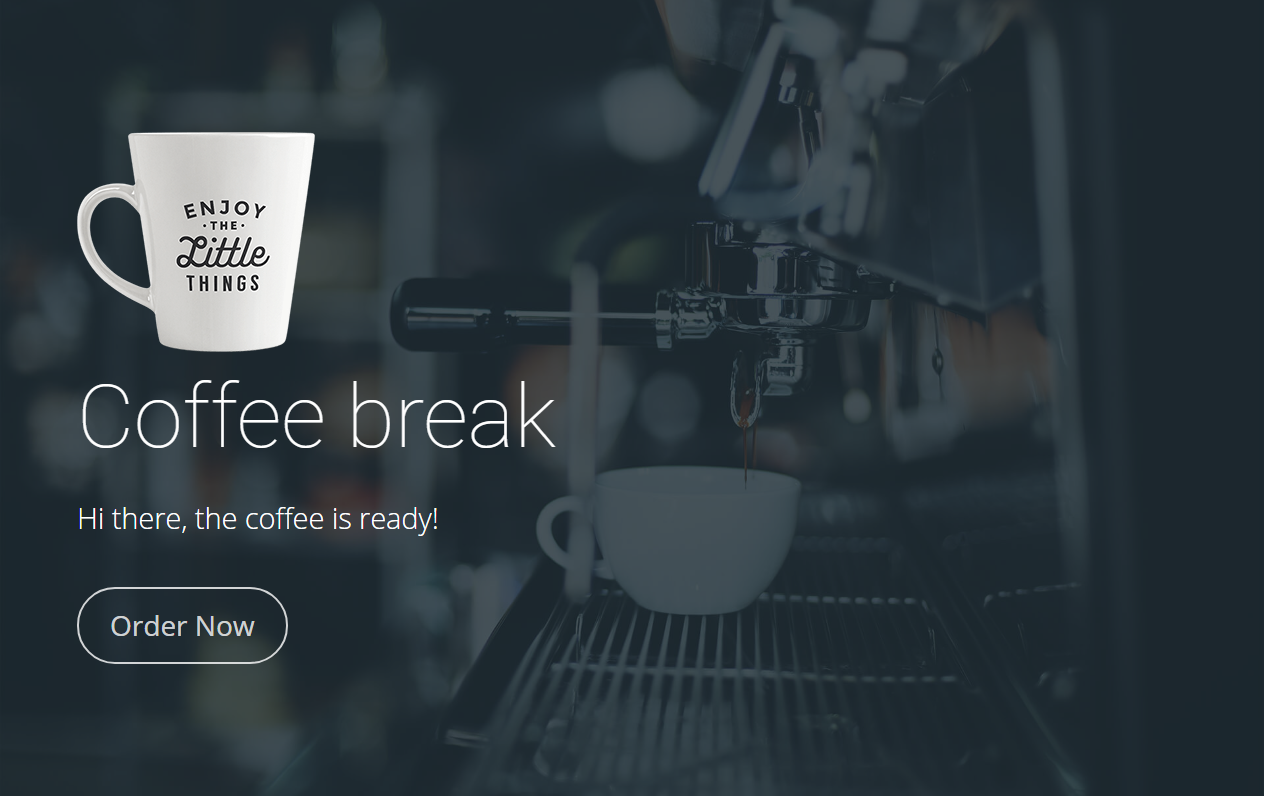
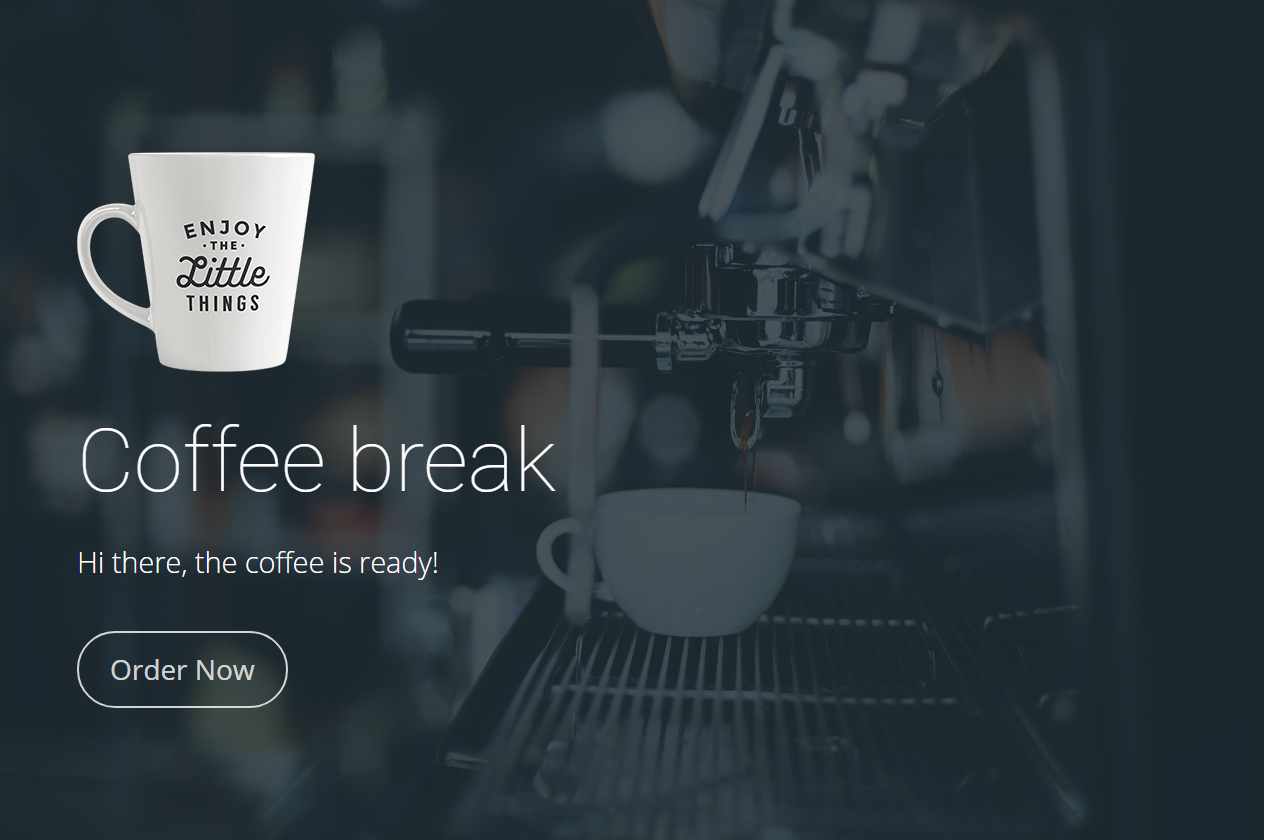
Header block update

diff --git a/blocks/landingpages/01-headers/block-04-03.blade.php b/blocks/landingpages/01-headers/block-04-03.blade.php
@@ -5,7 +5,7 @@
         <div class="header-padding-xl">
           <div class="row">
             <div class="col-md-12 text-center text-md-left">
-              <img src="/templates/assets/images/mockups/mug-light-small.png" alt="" class="mt-1 -x-img">
+              <img src="/templates/assets/images/mockups/mug-light-small.png" alt="" class="my-4 -x-img">
               <div class="-x-text">
                 <h1 class="display-2 mt-3">{!! trans('landingpages::block.header_07_head') !!}</h1>
                 <p class="lead">{!! trans('landingpages::block.header_07_line') !!}</p>
